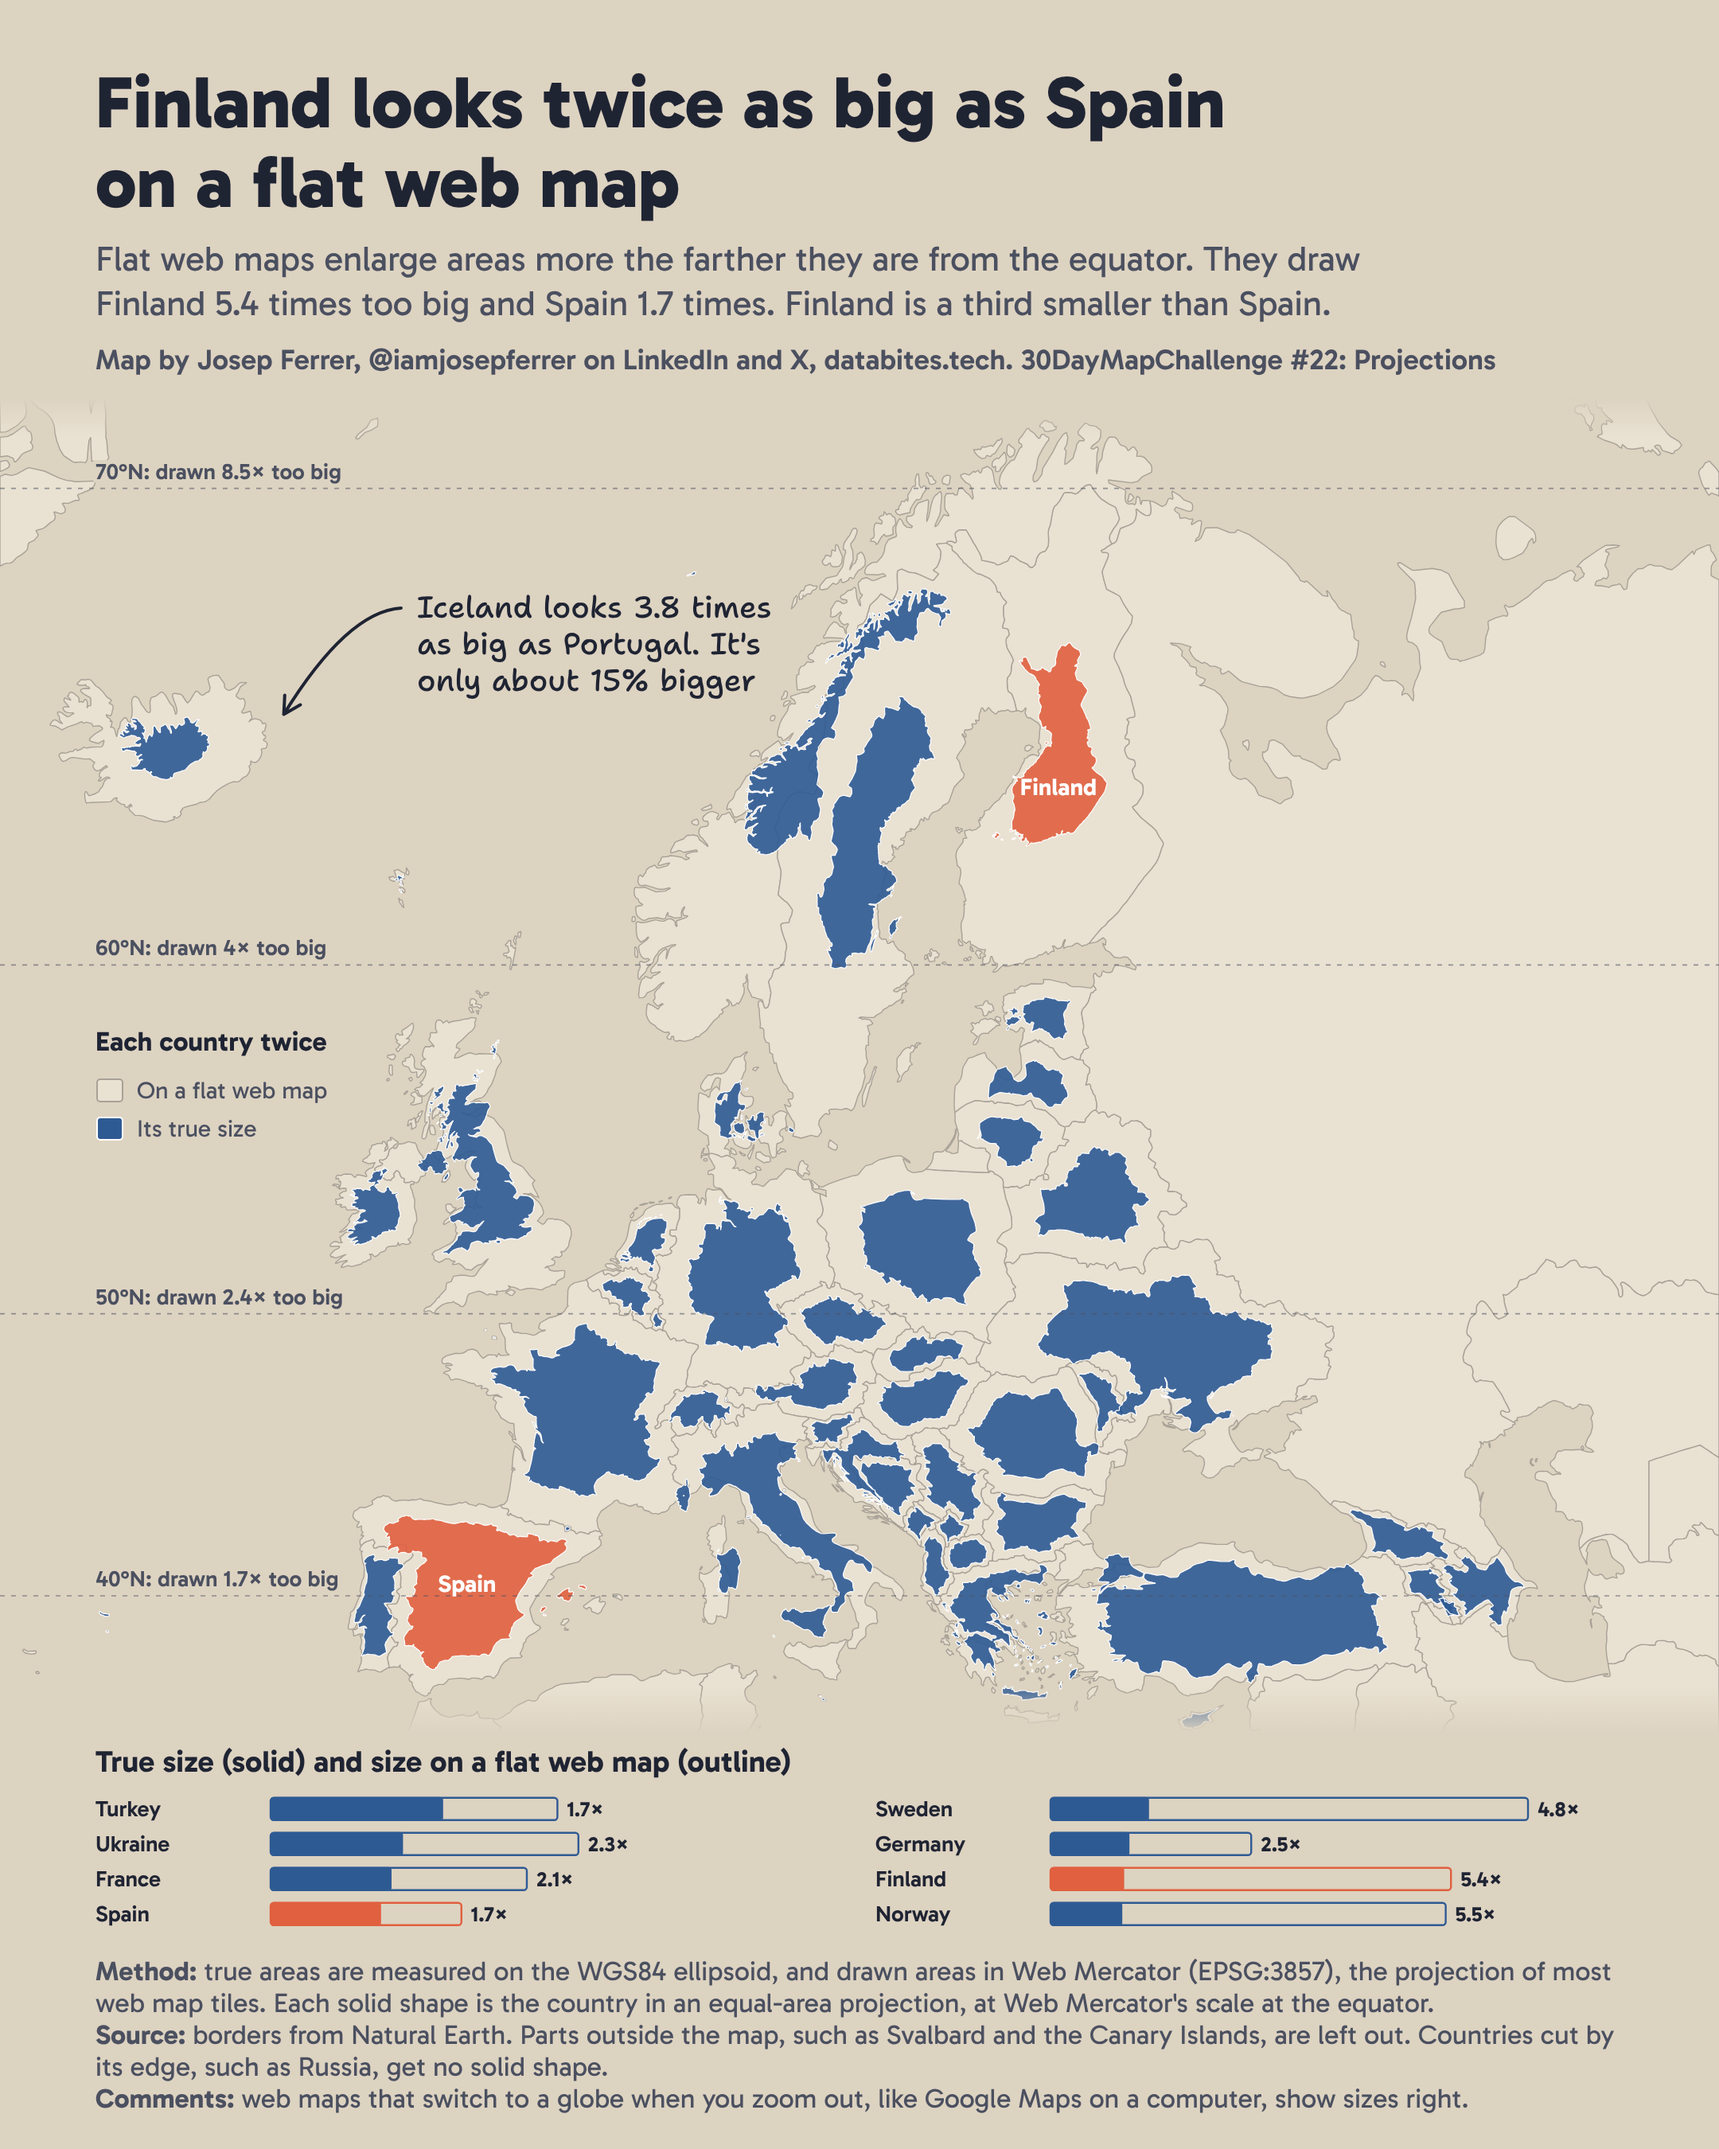
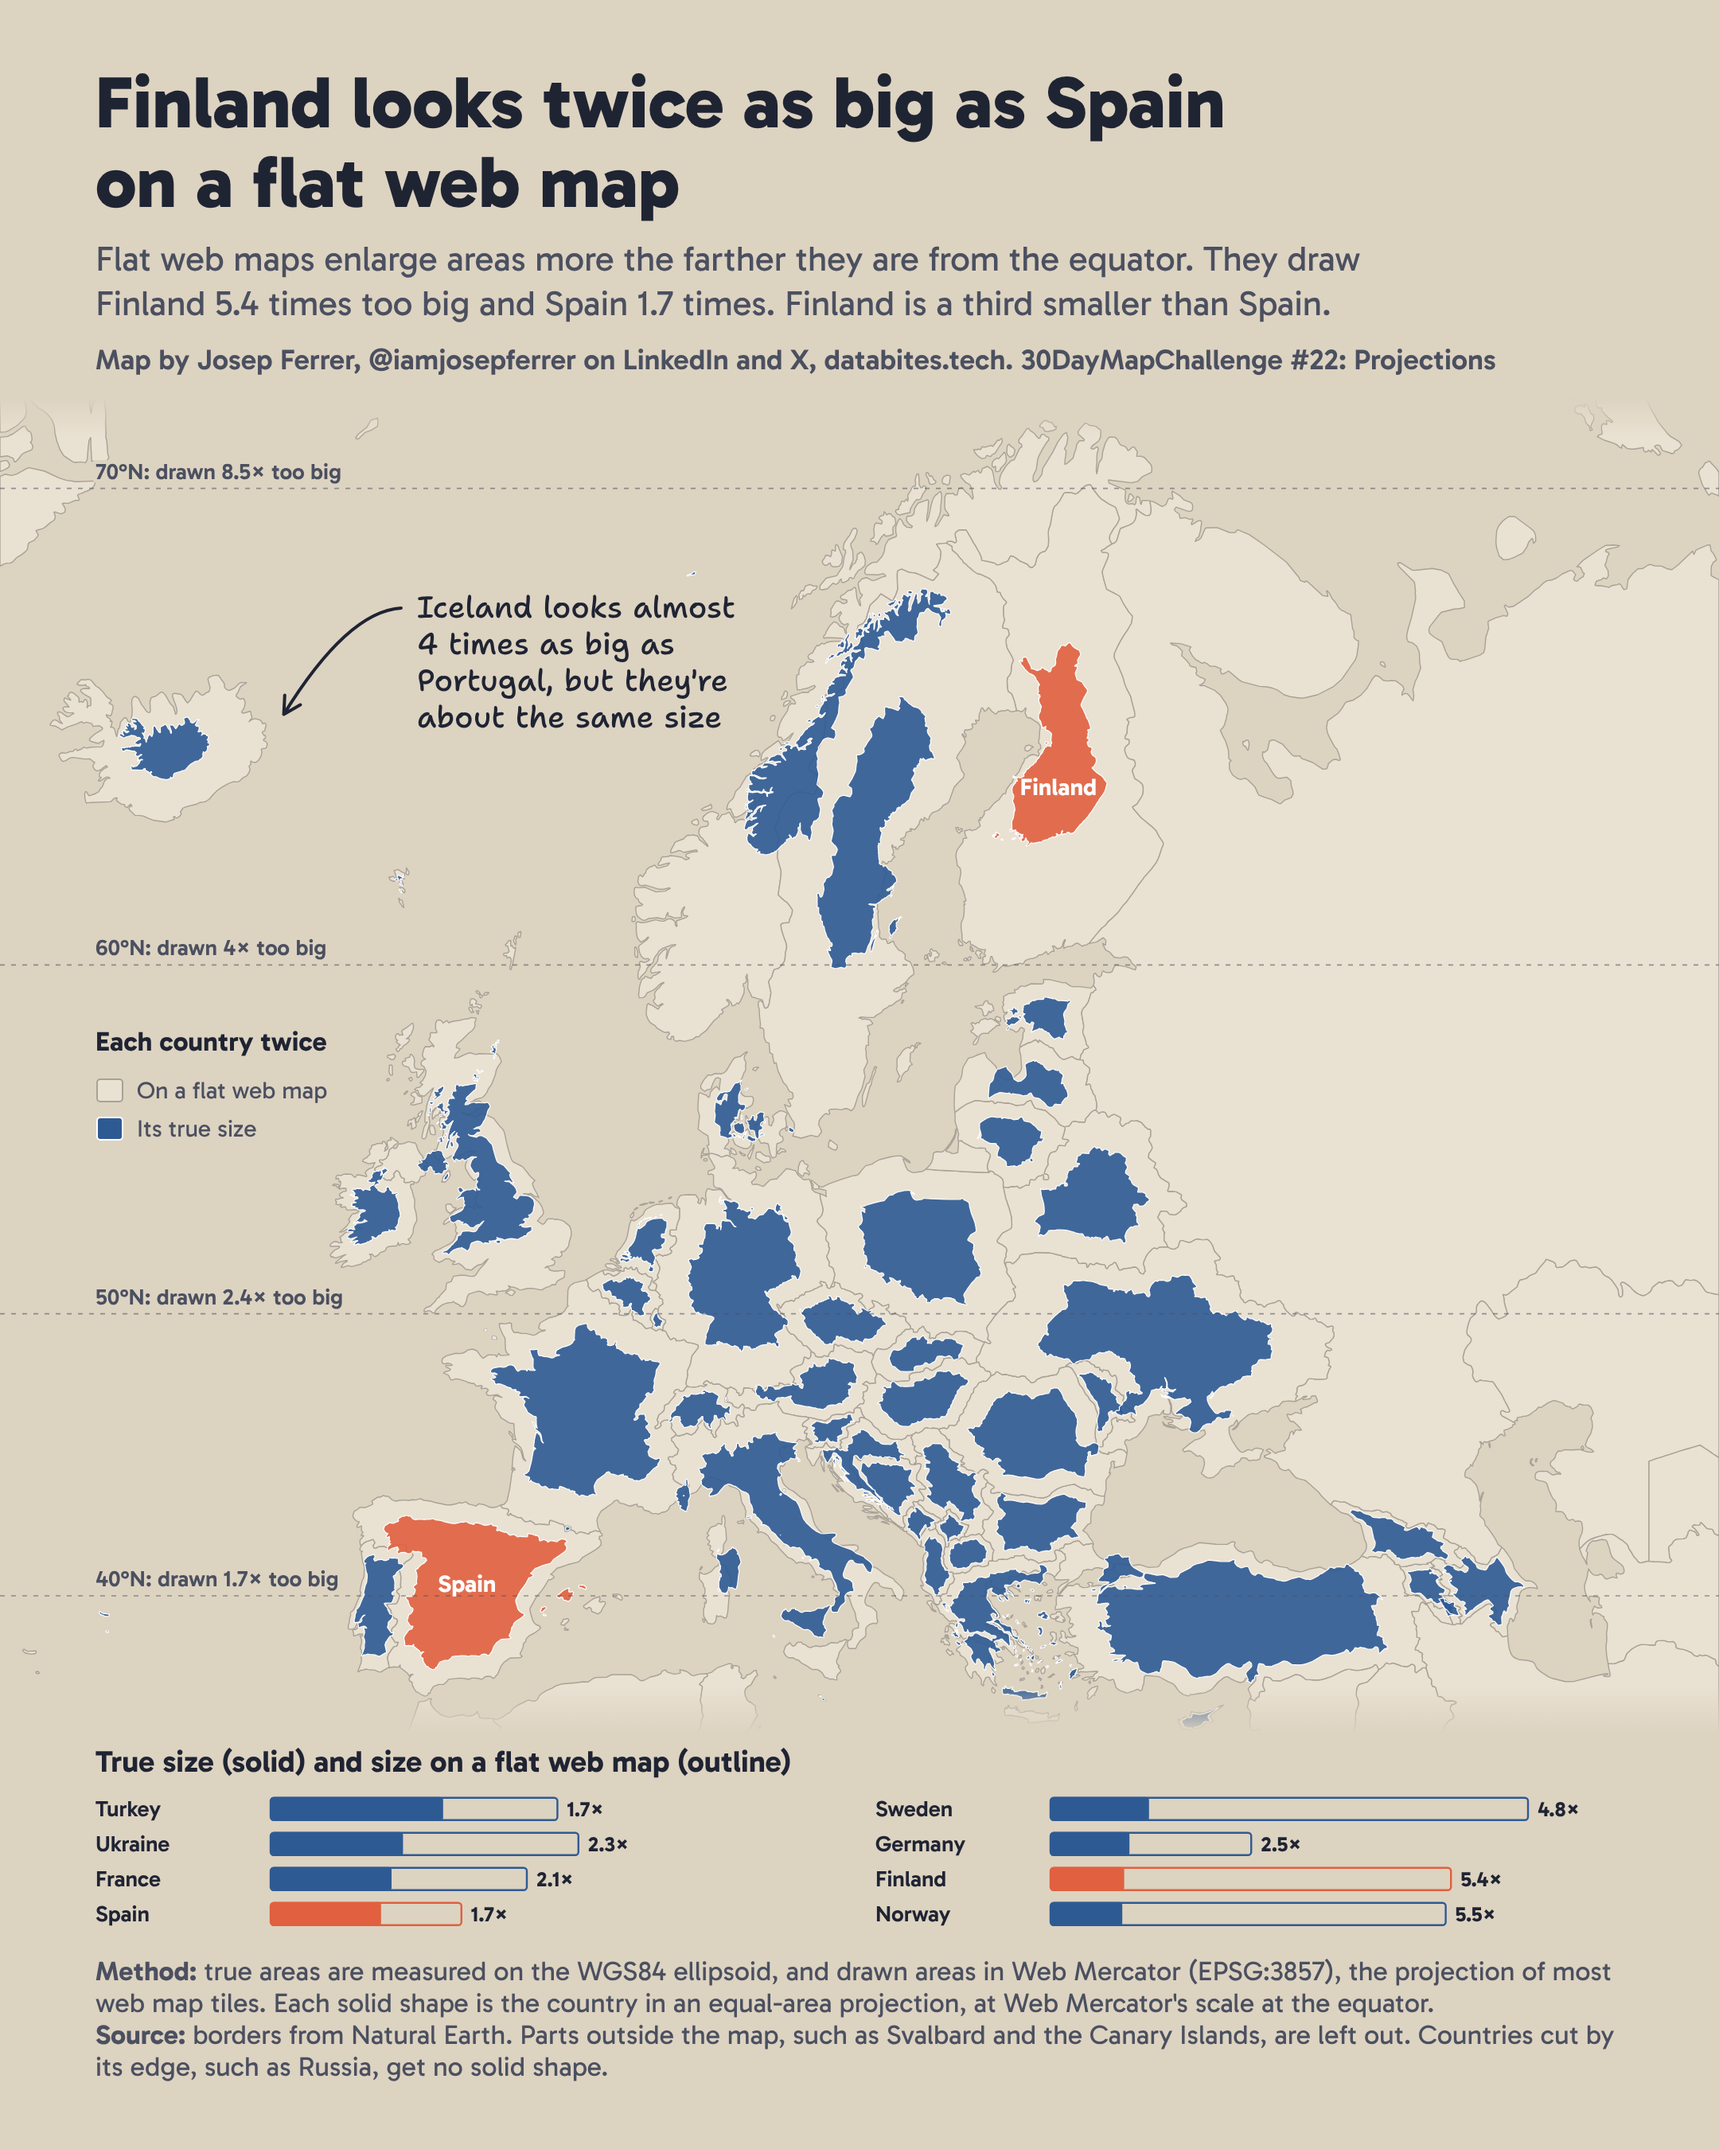
Day 22: Finland looks twice as big as Spain on a flat web map

diff --git a/2026/day22_projections/day22_projections.py b/2026/day22_projections/day22_projections.py
@@ -115,7 +115,7 @@ for i, (fill, stroke, label) in enumerate(((C["quiet_land"], C["ctx"], "On a fla
     svg.append(text(LX + 26, yy, label, 15, 400, C["ink2"]))
 
 # One note, over the Norwegian Sea, pointing at Iceland
-NOTE = [f"Iceland looks {ice_looks:.1f} times", "as big as Portugal. It's", f"only about {ice_really - 1:.0%} bigger"]
+NOTE = ["Iceland looks almost", "4 times as big as", "Portugal, but they're", "about the same size"]  # 3.8 times, and 15% bigger
 print(NOTE)
 nx, ny, step = 262, MAP_TOP + 138, 23
 svg.append(f'<text class="note" x="{nx}" y="{ny}" font-size="19" fill="{C["ink"]}">'
@@ -156,7 +156,6 @@ svg += footer([
                 "tiles. Each solid shape is the country in an equal-area projection, at Web Mercator's scale at the equator."),
     ("Source:", "borders from Natural Earth. Parts outside the map, such as Svalbard and the Canary Islands, are left out. "
                 "Countries cut by its edge, such as Russia, get no solid shape."),
-    ("Comments:", "web maps that switch to a globe when you zoom out, like Google Maps on a computer, show sizes right."),
 ], x=round(flush("M", 17, 700), 1), y=BASE + 27, width=960, size=17, line_height=20)
 save_png(page("".join(svg)), HERE / "day22_web_mercator.png")
 out = table[table.fits].drop(columns=["geom", "fits"]).sort_values("true_km2", ascending=False)
